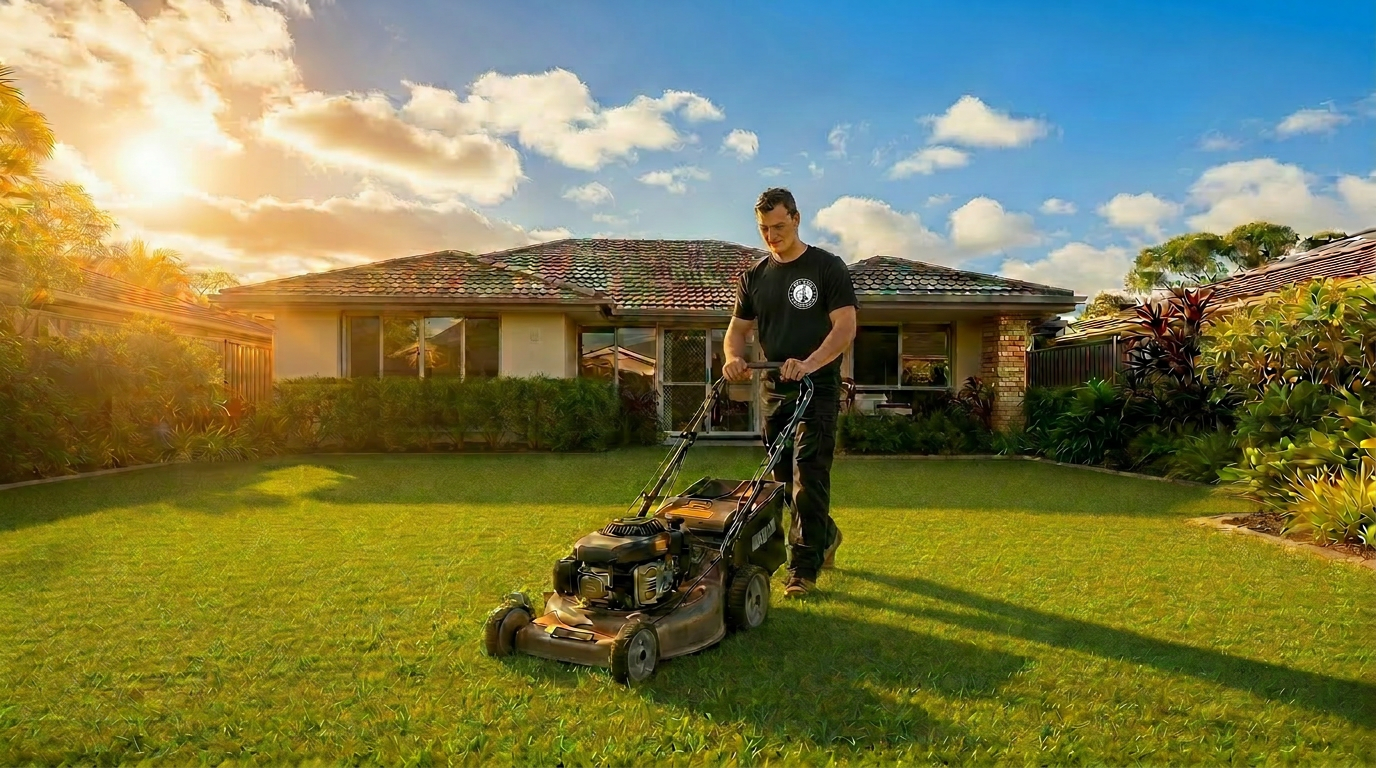
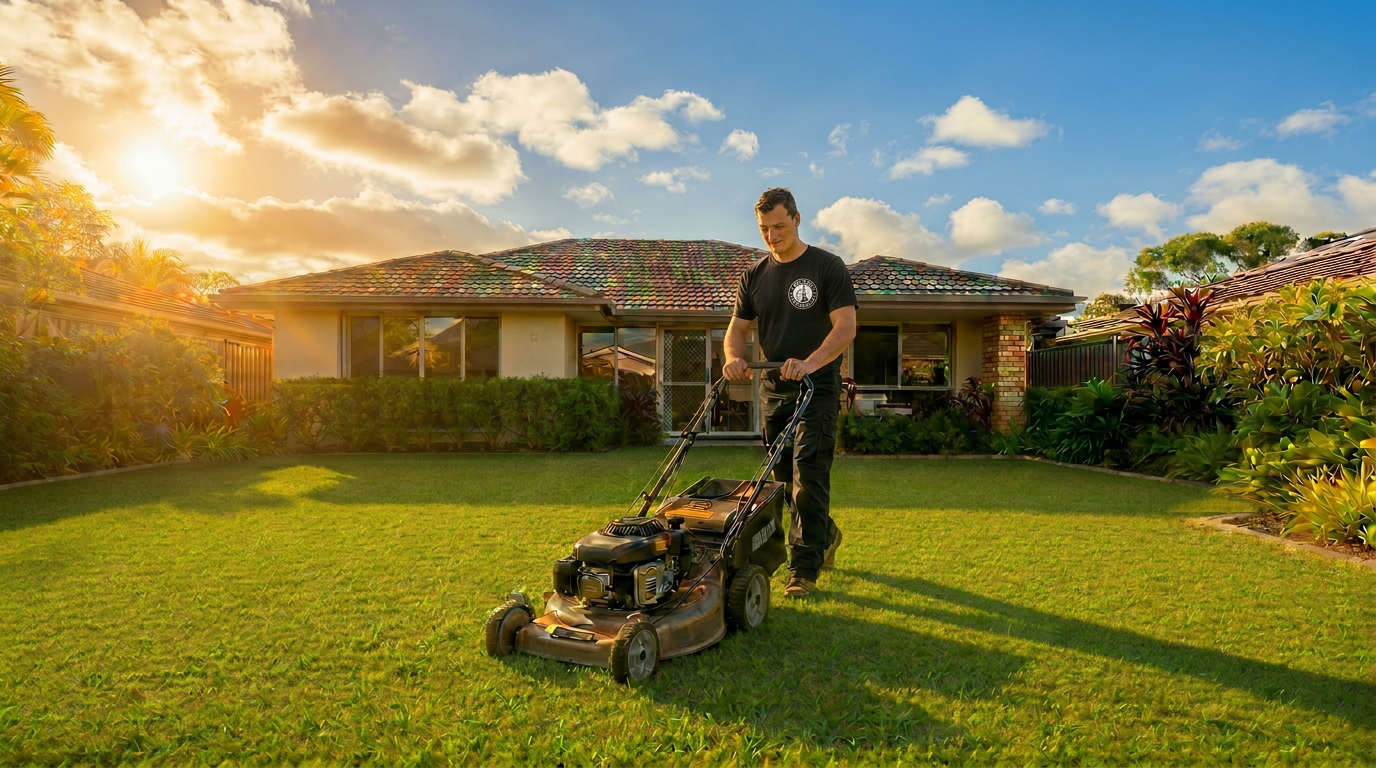
Changes

diff --git a/src/components/HeroSection.tsx b/src/components/HeroSection.tsx
@@ -14,7 +14,7 @@ const HeroSection = () => {
       <img
         src="/hero-lawn.jpg?v=10"
         alt="Too Easy Maintenance providing outdoor property maintenance on the Sunshine Coast"
-        className="absolute inset-0 w-full h-full object-cover object-[center_85%]"
+        className="absolute inset-0 w-full h-full object-cover object-[center_90%]"
         loading="eager"
         fetchPriority="high"
         width={1410}
